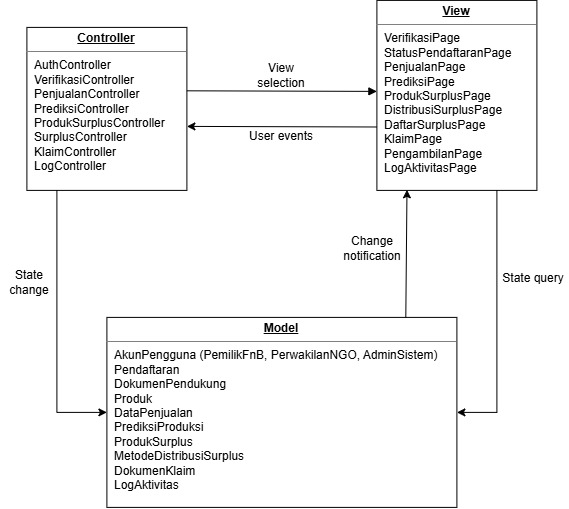
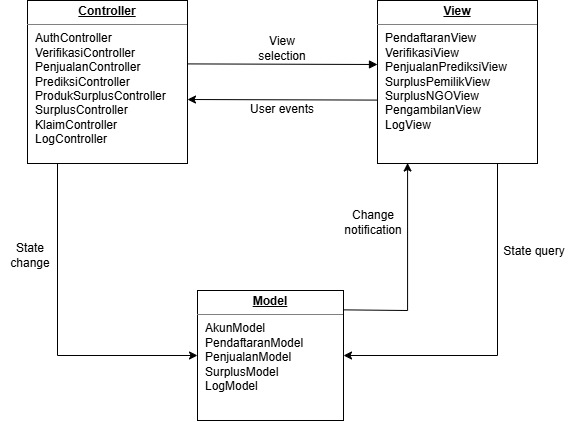
docs: revisi diagram arsitektur MVC agar sesuai BAB 2

Changed region(s): [[0.0, 0.0, 1.0, 1.0], [0.5975, 0.8318, 0.6274, 0.8626], [0.2988, 0.0924, 0.3286, 0.1232]]

diff --git a/docs/M6/K03_G08_APL.md b/docs/M6/K03_G08_APL.md
@@ -79,28 +79,28 @@ Tabel 2.1. Identifikasi Komponen/Modul/Subsistem
 
 | Nama Komponen/Modul/Subsistem | Jenis                 | Penjelasan                                                                                                           |
 | :---------------------------- | :-------------------- | :------------------------------------------------------------------------------------------------------------------- |
-| *PendaftaranView*                 | *View*                | *Menampilkan formulir registrasi sesuai dengan tipe akun yang didaftarkan beserta tempat untuk upload dokumen yang dibutuhkan untuk pendaftaran. Akan ditampilkan juga status pendaftaran dan aksi pengguna akan diteruskan ke AuthController. (C12 & C14)*     |
-| *VerifikasiView*               | *View*                | *Menampilkan antarmuka daftar serta detail pendaftar untuk admin yang akan diteruskan ke VerifikasiController. (C13)*                                                       |
-| *PenjualanPrediksiView*                | *View*                | *Menampilkan formulir untuk input data penjualan harian dan juga dashboard hasil prediksi produksi yang akan diteruskan ke PenjualanController dan PrediksiController. (C15 & C16)*                                      |
-| *SurplusPemilikView*          | *View*                | *Menampilkan antarmuka untuk menginput produk surplus dan juga pengaturan untuk metode distribusi surplus yang akan diteruskan ke ProdukSurplusController. (C17 & C18)*                                         |
-| *SurplusNGOView*           | *View*          | *Menampilkan antarmuka terkait produk surplus, mulai dari daftar dan detil produk serta fitur penyaringan produk hingga antarmuka untuk mengajukan klaim yang akan diteruskan ke SurplusController dan KlaimController. (C19 & C20)*                                             |
-| *PengambilanView*         | *View*          | *Menampilkan antarmuka untuk konfirmasi klaim produk surplus yang akan diteruskan ke KlaimController. (C21)*                                          |
-| *LogView*        | *View*          | *Menampilkan dashboard log aktivitas untuk admin yang akan diteruskan ke LogController. (C22)*                |
-| *AuthController*           | *Controller*          | *Memproses registrasi akun dan mengecek status pendaftaran. (C23)*                                                              |
-| *VerifikasiController*                      | *Controller*               | *Memproses keputusan verifikasi saat pendaftaran dan menangani proses pemeriksaan. (C04)*                        |
-| *PenjualanController*                   | *Controller*               | *Memvalidasi data penjualan harian dan menyimpannya. (C24)*       |
-| *PrediksiController*                     | *Controller*               | *Memvalidasi data historis dan menjalankan algoritma untuk menghasilkan rekomendasi produksi. (C25)*          |
-| *ProdukSurplusController*                   | *Controller*               | *Memvalidasi dan menyimpan data terkait produk surplus serta metode distribusinya. (C26)*                                |
-| *SurplusController*                    | *Controller*           | *Mengurutkan produk surplus berdasarkan beberapa kategori seperti jarak dan jenis. (C27)*                                                      |
-| *KlaimController*       | *Controller* | *Memvalidasi ketersediaan produk surplus dan menyetujui klaim serta memproses konfirmasi pengambilan produk. (C28)* |
-| *LogController*                    | *Controller*    | *Menampilkan dan juga menyaring log aktivitas pengguna untuk admin. (C29)*   |
-| *AkunModel*                    | *Model*    | *Menyimpan data akun dan identitas pengguna beserta sub kelasnya. (C01, C30, C31, C32)*   |
-| *PendaftaranModel*                         | Model*                 | *Menyimpan data registrasi beserta statusnya dan juga dokumen pendukung yang diunggah oleh pendaftar. (C02 & C03)*                                                                                                                |
-| *PenjualanModel*                         | *Model*                 | *Menyimpan jenis produk, data penjualan dan sisa harian, dan hasil prediksi produksi. (C05, C06, C07)*                                                                                                                |
-| *SurplusModel*                         | *Model*                 | *Menyimpan informasi produk surplus, pilihan distribusi surplus, dan juga catatan NGO yang mengklaim produk surplus. (C08, C09, C10)*                                                                                                                |
-| *LogModel*                         | *Model*                 | *Menyimpan informasi terkait pengguna, aktivitas, dan waktu. (C11)*                                                                                                                |
-| *GeolocationAdapter*                         | *Integrasi Eksternal*                 | *Menghubungkan SurplusController dengan layanan peta pihak ketiga untuk mengonversi alamat pemilik F&B dan lokasi NGO menjadi koordinat untuk menghitung jaraknya.*                                                                                                                |
-| *Database*                         | *Penyimpanan Data*                 | *Menyimpan data secara persisten pada PostgreSQL 15.*                                                                                                                |
+| *PendaftaranView* | *View* | *Menampilkan formulir registrasi sesuai dengan tipe akun yang didaftarkan beserta tempat untuk upload dokumen yang dibutuhkan untuk pendaftaran. Akan ditampilkan juga status pendaftaran dan aksi pengguna akan diteruskan ke AuthController. (C12 & C14)*     |
+| *VerifikasiView* | *View* | *Menampilkan antarmuka daftar serta detail pendaftar untuk admin yang akan diteruskan ke VerifikasiController. (C13)*                                                       |
+| *PenjualanPrediksiView* | *View* | *Menampilkan formulir untuk input data penjualan harian dan juga dashboard hasil prediksi produksi yang akan diteruskan ke PenjualanController dan PrediksiController. (C15 & C16)* |
+| *SurplusPemilikView* | *View* | *Menampilkan antarmuka untuk menginput produk surplus dan juga pengaturan untuk metode distribusi surplus yang akan diteruskan ke ProdukSurplusController. (C17 & C18)* |
+| *SurplusNGOView* | *View* | *Menampilkan antarmuka terkait produk surplus, mulai dari daftar dan detil produk serta fitur penyaringan produk hingga antarmuka untuk mengajukan klaim yang akan diteruskan ke SurplusController dan KlaimController. (C19 & C20)*                                             |
+| *PengambilanView* | *View* | *Menampilkan antarmuka untuk konfirmasi klaim produk surplus yang akan diteruskan ke KlaimController. (C21)* |
+| *LogView* | *View* | *Menampilkan dashboard log aktivitas untuk admin yang akan diteruskan ke LogController. (C22)* |
+| *AuthController* | *Controller* | *Memproses registrasi akun dan mengecek status pendaftaran. (C23)* |
+| *VerifikasiController* | *Controller*  | *Memproses keputusan verifikasi saat pendaftaran dan menangani proses pemeriksaan. (C04)* |
+| *PenjualanController* | *Controller* | *Memvalidasi data penjualan harian dan menyimpannya. (C24)* |
+| *PrediksiController* | *Controller* | *Memvalidasi data historis dan menjalankan algoritma untuk menghasilkan rekomendasi produksi. (C25)* |
+| *ProdukSurplusController* | *Controller* | *Memvalidasi dan menyimpan data terkait produk surplus serta metode distribusinya. (C26)* |
+| *SurplusController* | *Controller* | *Mengurutkan produk surplus berdasarkan beberapa kategori seperti jarak dan jenis. (C27)* |
+| *KlaimController* | *Controller* | *Memvalidasi ketersediaan produk surplus dan menyetujui klaim serta memproses konfirmasi pengambilan produk. (C28)* |
+| *LogController* | *Controller* | *Menampilkan dan juga menyaring log aktivitas pengguna untuk admin. (C29)* |
+| *AkunModel* | *Model* | *Menyimpan data akun dan identitas pengguna beserta sub kelasnya. (C01, C30, C31, C32)* |
+| *PendaftaranModel* | Model* | *Menyimpan data registrasi beserta statusnya dan juga dokumen pendukung yang diunggah oleh pendaftar. (C02 & C03)* |
+| *PenjualanModel* | *Model* | *Menyimpan jenis produk, data penjualan dan sisa harian, dan hasil prediksi produksi. (C05, C06, C07)* |
+| *SurplusModel* | *Model* | *Menyimpan informasi produk surplus, pilihan distribusi surplus, dan juga catatan NGO yang mengklaim produk surplus. (C08, C09, C10)* |
+| *LogModel* | *Model* | *Menyimpan informasi terkait pengguna, aktivitas, dan waktu. (C11)* |
+| *GeolocationAdapter* | *Integrasi Eksternal* | *Menghubungkan SurplusController dengan layanan peta pihak ketiga untuk mengonversi alamat pemilik F&B dan lokasi NGO menjadi koordinat untuk menghitung jaraknya.* |
+| *Database* | *Penyimpanan Data* | *Menyimpan data secara persisten pada PostgreSQL 15, diakses oleh seluruh komponen Model.* |
 
 
 <sub><b><i>Catatan</i></b>: <i>Nama komponen pada Tabel 2.1 harus dipakai sama persis pada gambar di BAB 1 dan setiap view di BAB 3. Jika saat membuat view ternyata dibutuhkan komponen baru, tambahkan komponen tersebut ke Tabel 2.1 terlebih dahulu.</i></sub>
